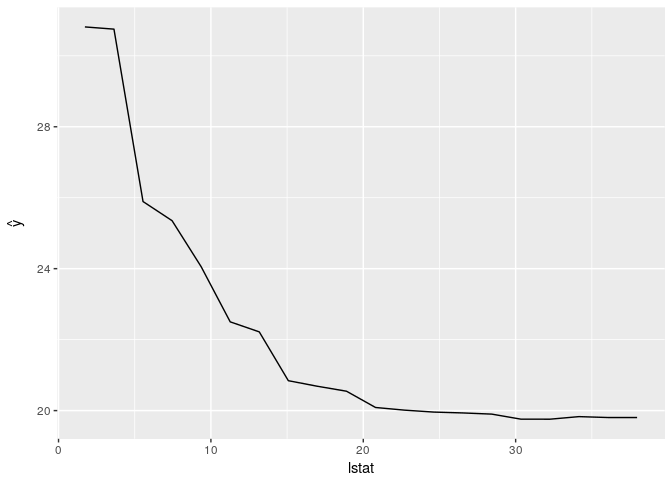
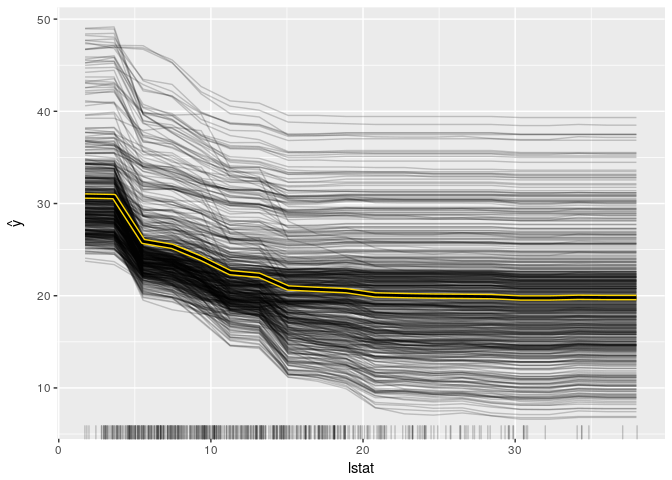
updates documentation

diff --git a/README.md b/README.md
@@ -84,23 +84,14 @@ plot(tree)
 
 ![](README_files/figure-markdown_github/unnamed-chunk-4-1.png)
 
-### How does lstat influence the prediction on average? (Partial dependence plot)
+### How does lstat influence the prediction individually and on average? (Partial dependence plot and ICE)
 
 ``` r
-pdp.obj = PartialDependence$new(model, feature = "lstat")
-plot(pdp.obj)
+pdp.obj = Partial$new(model, feature = "lstat")
+pdp.obj$plot()
 ```
 
 ![](README_files/figure-markdown_github/unnamed-chunk-5-1.png)
-
-### How does lstat influence the individual predictions? (ICE)
-
-``` r
-ice.curves = Ice$new(model, feature = "lstat")
-plot(ice.curves) 
-```
-
-![](README_files/figure-markdown_github/unnamed-chunk-6-1.png)
 
 ### Explain a single prediction with a local linear model. (LIME)
 
@@ -118,7 +109,7 @@ lime.explain$results
 plot(lime.explain)
 ```
 
-![](README_files/figure-markdown_github/unnamed-chunk-7-1.png)
+![](README_files/figure-markdown_github/unnamed-chunk-6-1.png)
 
 ### Explain a single prediction with game theory. (Shapley)
 
@@ -128,25 +119,25 @@ shapley.explain$results
 ```
 
     ##    feature           phi      phi.var feature.value
-    ## 1     crim -0.0723403620  1.236298269  crim=0.00632
-    ## 2       zn -0.0950710000  0.042044428         zn=18
-    ## 3    indus  0.7402716277  1.556442963    indus=2.31
-    ## 4     chas -0.0240226667  0.009907358        chas=0
-    ## 5      nox -0.1974995303  0.727310327     nox=0.538
-    ## 6       rm -0.0752455000  7.788278183      rm=6.575
-    ## 7      age -0.0850019791  0.333944689      age=65.2
-    ## 8      dis -0.1753825842  1.089173160      dis=4.09
-    ## 9      rad -0.4722923333  0.407054214         rad=1
-    ## 10     tax -0.1853100000  0.393279176       tax=296
-    ## 11 ptratio  0.7285225750  1.220922649  ptratio=15.3
-    ## 12   black -0.0008046753  0.267453217   black=396.9
-    ## 13   lstat  3.7001500745 19.387675029    lstat=4.98
+    ## 1     crim -9.022108e-03  0.964278134  crim=0.00632
+    ## 2       zn -9.738367e-02  0.051074401         zn=18
+    ## 3    indus  9.395742e-01  1.742122038    indus=2.31
+    ## 4     chas -5.958000e-03  0.004576209        chas=0
+    ## 5      nox  3.246872e-02  1.625869345     nox=0.538
+    ## 6       rm  1.204375e-01  8.147532838      rm=6.575
+    ## 7      age -6.728853e-02  0.233897643      age=65.2
+    ## 8      dis -8.011222e-05  0.776136361      dis=4.09
+    ## 9      rad -3.547343e-01  0.284562657         rad=1
+    ## 10     tax -2.085008e-01  0.802706167       tax=296
+    ## 11 ptratio  5.989281e-01  1.193181060  ptratio=15.3
+    ## 12   black -8.346362e-02  0.189856738   black=396.9
+    ## 13   lstat  3.136579e+00 11.712142750    lstat=4.98
 
 ``` r
 plot(shapley.explain)
 ```
 
-![](README_files/figure-markdown_github/unnamed-chunk-8-1.png)
+![](README_files/figure-markdown_github/unnamed-chunk-7-1.png)
 
 Python Implementation
 =====================
